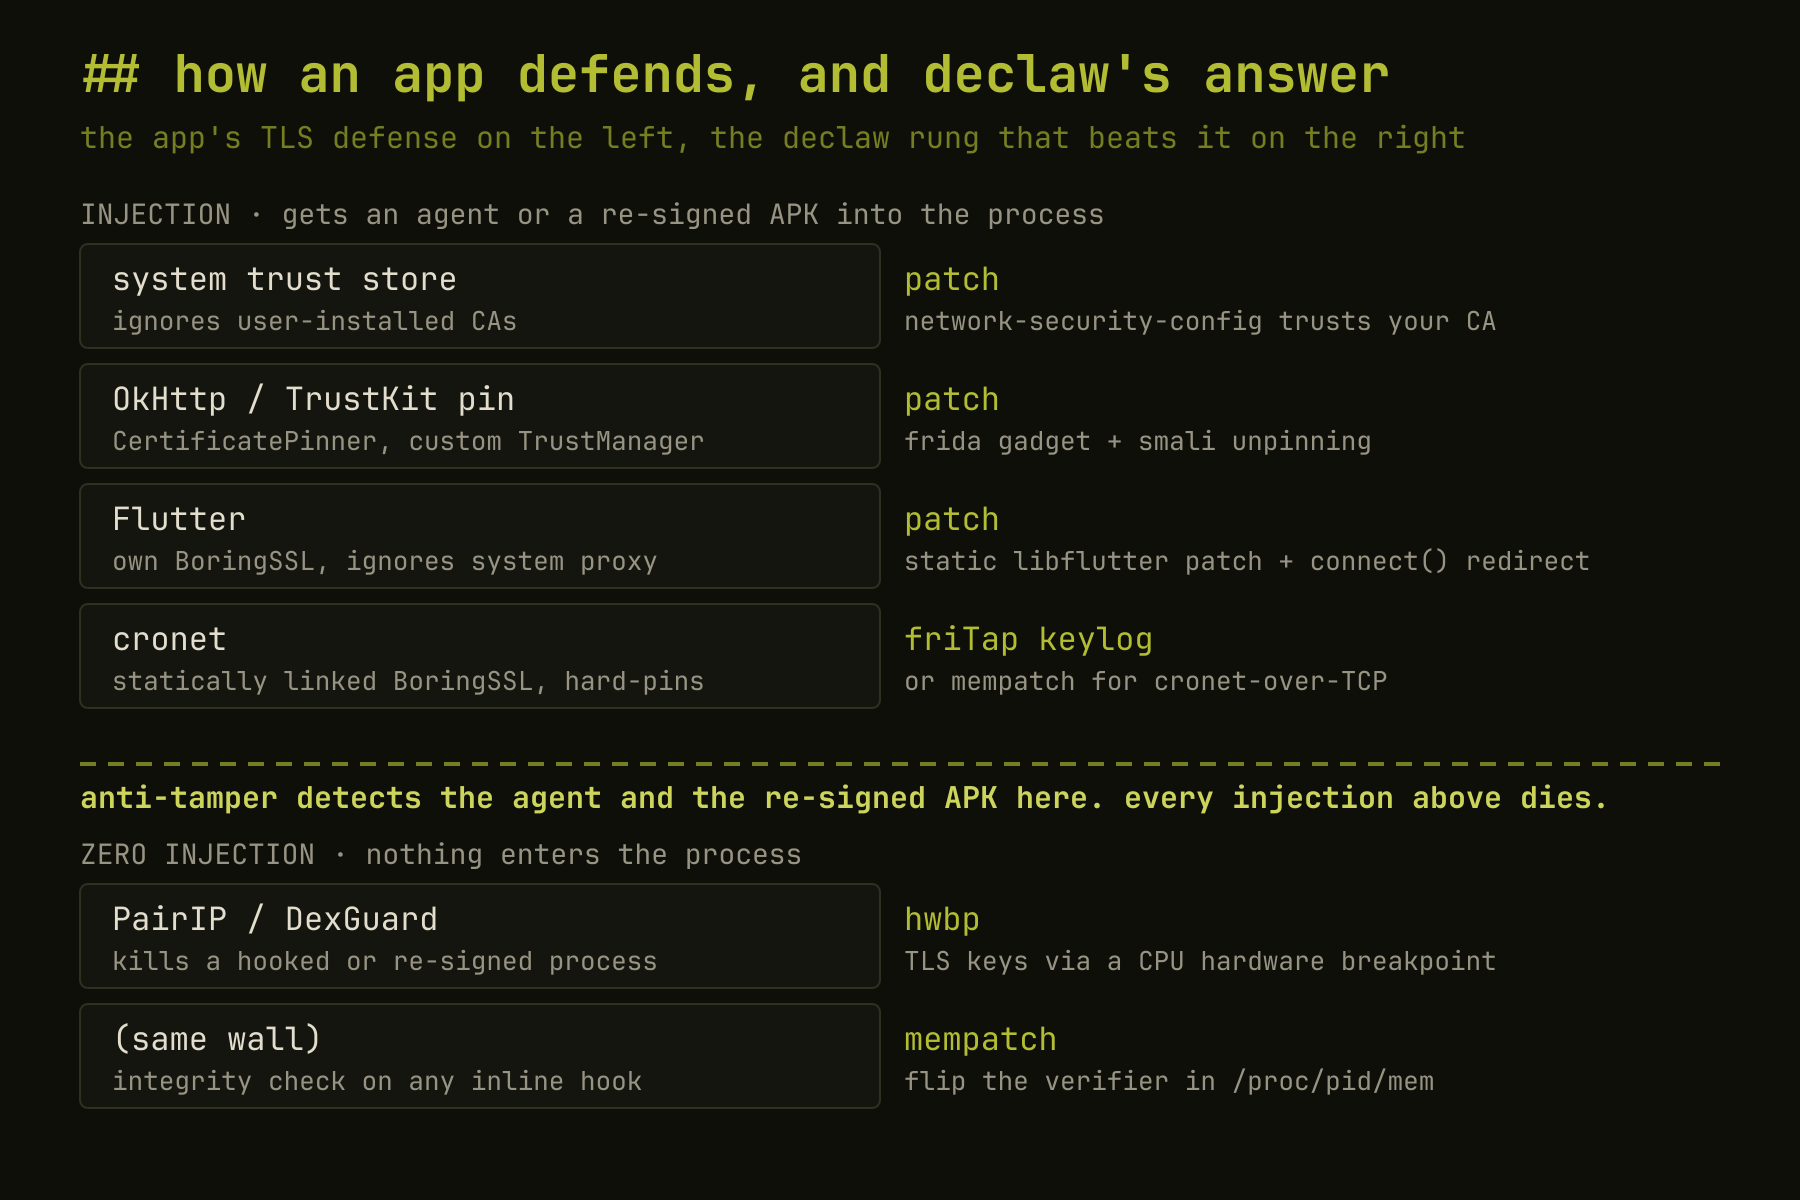
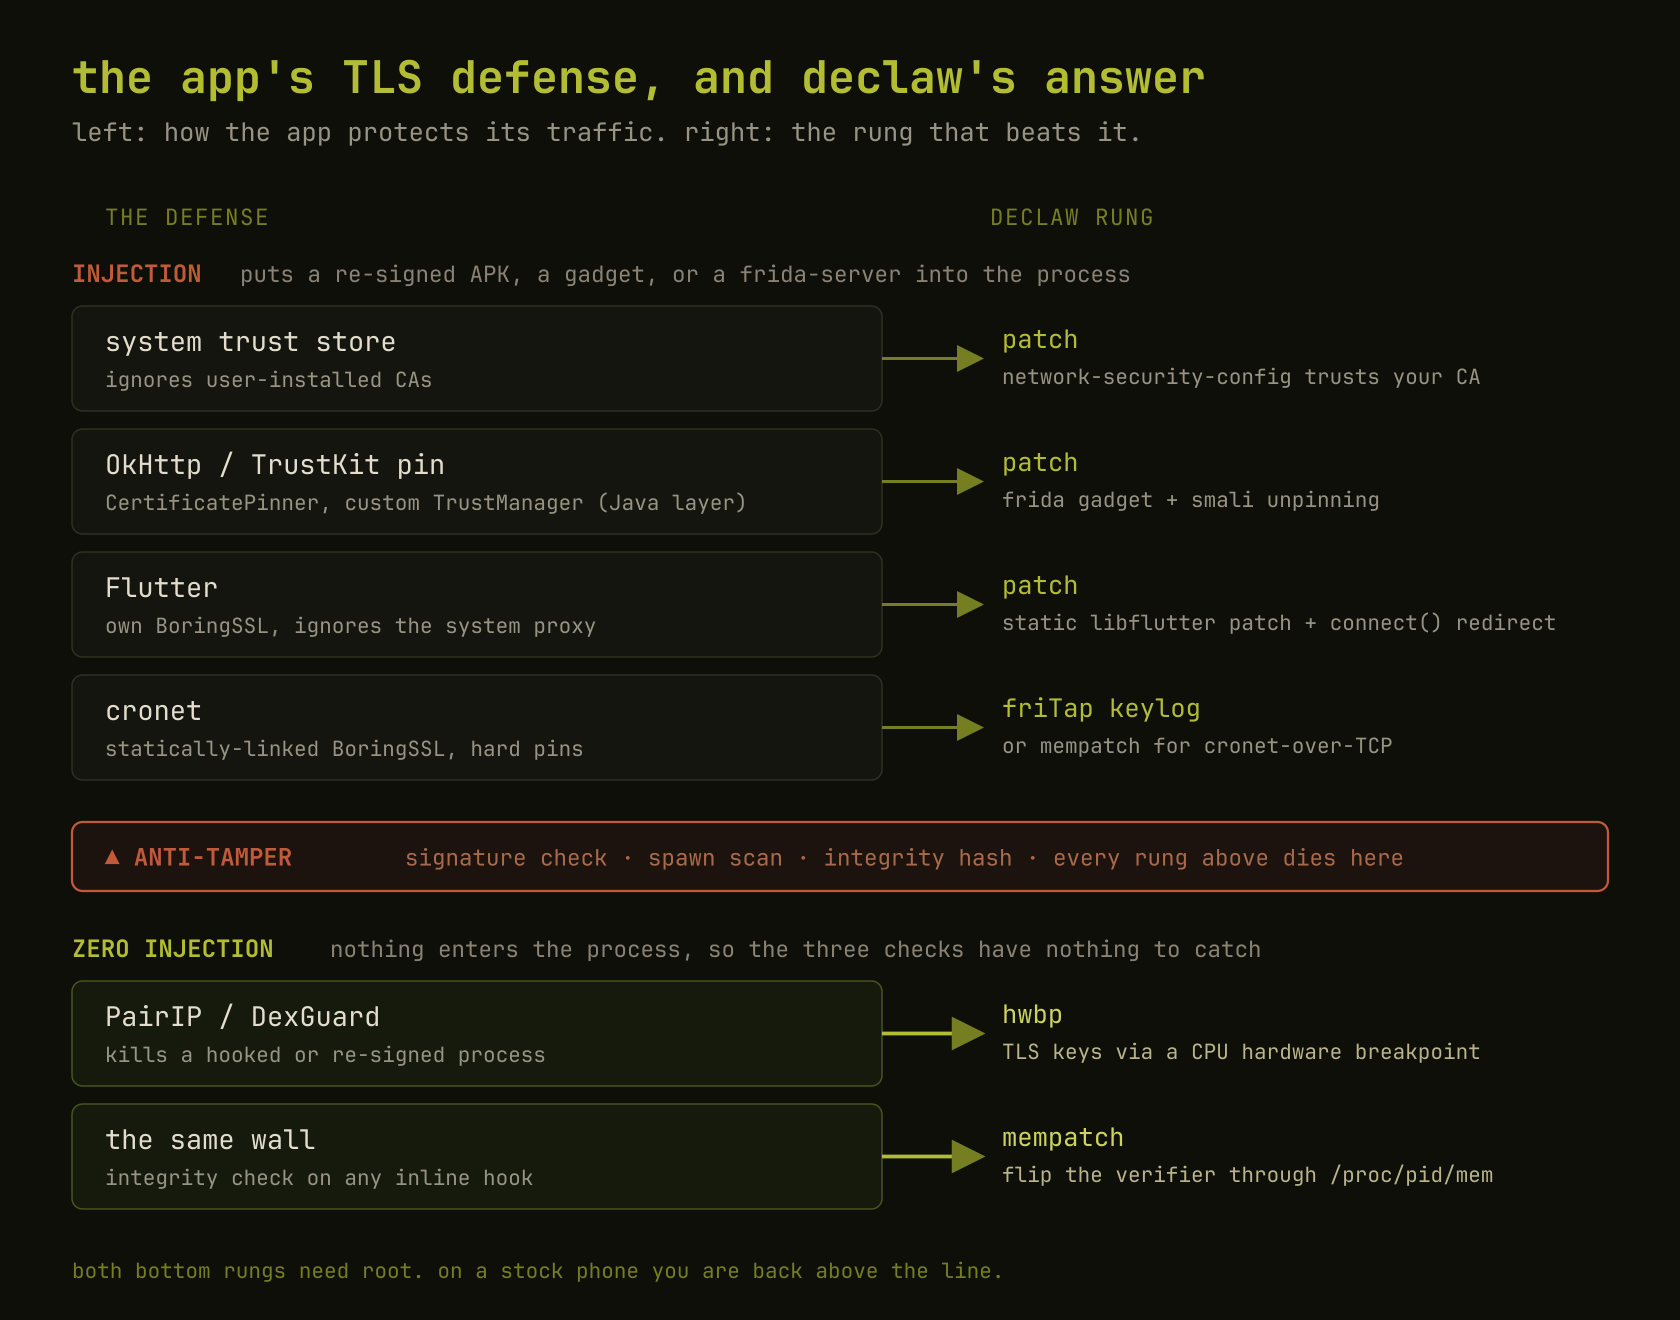
declaw post: real deploy terminals, deeper technique detail, wider column
Replace the declaw-lab visuals with real captures from deploying the rig:
fetch/provision/check, the corrected lab -h, and the avd snapshot restore.
Redesign the pinning-map with the defense-to-rung flow and the anti-tamper
line. Expand the techniques with the walls hit and the trials behind each:
the frida Gum crash and the killed re-signed build that forced the no-injection
rungs, the wrong-library mempatch trap, the rig-build OOM. Front-load the root
boundary, scope the hardened-app claim to what has a control, and separate the
Java-layer pin from the native chain trust. Widen the reading column to 52rem.

diff --git a/assets/css/main.scss b/assets/css/main.scss
@@ -807,7 +807,7 @@ a.sh-label {
 // header, prose, and code share one balanced column instead of the body text
 // hugging the left under a full-width header.
 .post {
-  max-width: 46rem;
+  max-width: 52rem;
   margin-inline: auto;
 }
 

diff --git a/_posts/2026-07-15-declaw-android-tls-unpinning.md b/_posts/2026-07-15-declaw-android-tls-unpinning.md
@@ -22,11 +22,15 @@ Search "Android SSL pinning bypass" and every result stops at the same place: in
 
 A modern anti-tamper packer like PairIP or DexGuard does three things that end that assumption. It verifies the APK signature at runtime, so your re-signed repackaged APK is spotted and killed before it runs. It scans for a Frida agent at spawn, so the injection is caught before your script loads. And it runs a code-integrity check that crashes the process on the first inline hook of a TLS function, so even an agent that gets in dies on the first thing it tries to do. Every technique in every "bypass pinning" post shares the assumption those three checks exist to destroy.
 
+I did not arrive at this from theory. I hit two of those walls in one sitting. A re-signed build of a hardened app died on launch, before its first screen, killed by the signature check. And separately, on a real device running Android 16 on a Tensor core, `frida-server` would not even stay up long enough to be detected: its Gum engine segfaulted on spawn on that kernel, so there was no agent to catch because the agent could not load at all. Two different defenses, and the same outcome both times, which is that the process I needed to be inside was one I could no longer get into.
+
 So the interesting question is not how to unpin. It is what you do when the app detects the unpinning. declaw is my answer to the whole spread, from the easy majority to that cliff, and the map looks like this.
 
 ![how an app defends its TLS and which declaw rung beats each, split by the line where injection stops working]({{ '/assets/img/posts/declaw-pinning-map.png' | relative_url }})
 
 Everything above the dashed line puts something into the process: a re-signed APK, a gadget, a frida-server. Anti-tamper is the line. Below it are the two rungs that put nothing in, and those are the ones worth writing about, so I am leading with them.
+
+One boundary belongs up front, because it shapes everything below the line. Both of those rungs need root, on a rooted device or an emulator you own. They read and write another process's memory, and a stock phone does not let you near it: `perf_event_paranoid` is locked down and SELinux is enforcing, so neither the breakpoint nor the `/proc/pid/mem` write is even reachable. That is the honest cost of getting under the injection line. On a stock, non-rooted phone you are back above it, in repackage territory, and the anti-tamper app wins. Everything that follows assumes the one place these rungs apply: a device or emulator where you already hold root.
 
 ## read the keys with a hardware breakpoint
 
@@ -68,11 +72,17 @@ On the real Android 16 conscrypt BoringSSL that is the live function at file off
 
 The decoy takes a second argument, `send_alert`, and reads it near the top with `mov w19, w1`. The live function takes one argument and never touches `w1`. That one read is the entire discriminator, and the function that has it is the one I patched by mistake.
 
+The decoy is the wrong function inside the right library. There is a second trap that is the wrong library entirely, and I walked into it too. An app that bundles cronet ships its own `stable_cronet_libssl.so`, and that filename contains `libssl.so`, so a loose match on `libssl.so@0x5aa30` resolves to cronet's copy instead of conscrypt's. The write took, the bytes read back exactly as intended, the tool printed success, and nothing decrypted, because I had flipped the verifier in a BoringSSL that was not the one running the handshake. Both traps have the identical shape, a patch that lands, verifies, and does nothing, and that shape is the argument for the discipline the whole post is built on: name the exact library, `com.android.conscrypt/lib64/libssl.so@auto`, let `find_verify` pick the live function inside it, and never trust a success you cannot turn back off.
+
 The negative control is the part I trust, because "the app loaded" is not evidence the bypass worked. Here it is fresh on the rig against a neutral target, the F-Droid client fetching its repo over conscrypt. A throwaway proxy presents an untrusted cert. Before the patch, conscrypt refuses it with `certificate_unknown`. After declaw writes the eight bytes into the live `ssl_verify_peer_cert` (the `before` bytes are `sub sp,#0x70 ; stp x29,x30`, the real prologue, so it landed on the function and not the decoy), the same request in the same process comes out in the clear.
 
 ![mempatch on the arm64 rig: F-Droid's cert-validated request to f-droid.org goes from certificate_unknown to plaintext after the eight-byte flip]({{ '/assets/img/posts/declaw-mempatch-capture.png' | relative_url }})
 
-Revert the eight bytes and it is `certificate_unknown` again. One variable, toggled, and the traffic appears and disappears with it. The same eight bytes work against an app built to notice: against a PairIP-hardened, certificate-pinned app, unpatched it dropped the connection with `certificate_unknown` and patched it emitted `POST https://<its API host>/graphql/...` in the clear, and since nothing was hooked and no file changed, the packer had nothing to fault. The one thing the flip does not touch is the Java-layer hostname check, which is why the proxy mints a per-SNI leaf: `ssl_verify_peer_cert` is the chain trust, and OkHttp verifies the name separately.
+Revert the eight bytes and it is `certificate_unknown` again. One variable, toggled, and the traffic appears and disappears with it. That is the control I can hand you: a neutral target, patched and unpatched in the same process, on the rig, and it is the run I trust because it is the one I can turn off on demand.
+
+The same eight bytes carry to an app built to notice, and I want to be exact about the evidence there. Against a PairIP-hardened, pinned target, the unpatched process dropped the connection with `certificate_unknown`, and after the flip the same process emitted a `POST .../graphql` request in the clear. Nothing was hooked and no file on disk changed, so the code-integrity check had nothing to fault, which is the entire reason this rung exists. But I am keeping that target anonymous, so what you get for it is the mechanism and not a captured, reverting control like the neutral one above. The strong, reproducible evidence in this post is the F-Droid run; the hardened run is the identical primitive against a name I will not print. I would rather say that plainly than dress an anonymized result up as proof.
+
+Two things the flip deliberately does not do, and you have to handle both. It does not touch the Java-layer hostname check, so the proxy mints a per-SNI leaf to satisfy it. And, more importantly, it does not touch a Java-layer certificate pin. `ssl_verify_peer_cert` is BoringSSL's chain-trust decision, but OkHttp's `CertificatePinner` runs up in Java, after the handshake, comparing the peer chain against pins the app hardcoded, and the eight bytes never reach it. So mempatch is the rung for native trust: conscrypt, cronet, and the packers that pin below the Java layer. Where the pin lives in OkHttp itself, flipping BoringSSL is not enough, and that app goes the repackage route instead, which is the next section.
 
 ## and for everything that does not fight back
 
@@ -88,13 +98,17 @@ That is a real run against the open-source F-Droid client. declaw pulled the bas
 - a static byte-patch of `libflutter.so` for Flutter apps, so the bypass survives even where the gadget cannot load,
 - and the whole repack, parallel re-sign, and `install-multiple` dance with a `pm install` session fallback, all cached under `utils/` so the first slow download is the only slow one.
 
+The Flutter static patch is the rung I lean on hardest, because the gadget is the fragile part of this whole path. The same Frida Gum crash that killed injection on the hardened app also makes the gadget unreliable on newer devices, and a Flutter app ignores your system proxy on top of that, so you can have a gadget that loads and still see no traffic. Patching `ssl_verify_peer_cert` inside `libflutter.so` on disk sidesteps both problems at once: no agent to crash, and the `connect()` redirect drags the socket to your proxy regardless. That combination is what got a real Flutter banking app decrypting cleanly into Burp end to end, on a build where the gadget alone had gotten me nothing.
+
 When it detects cronet or an anti-tamper packer, it says so and routes you to the capture rungs instead of handing you a patched APK that will be rejected or killed. One command reads the app and picks the fight it can actually win. That is the part that makes it a tool.
 
 ## declaw-lab: proving the hard rungs on Linux
 
 Every rung past the first leans on the same thing: root, arm64, and the app's real BoringSSL in a real process. The standard x86_64 Android emulator gives you none of it cleanly. It cannot run arm-only builds, its ARM translation layer SIGSEGVs Frida's native hooks, and the hardware-breakpoint finder and mempatch stub are arm64-only by construction. So to test any of this honestly on an x86 Linux laptop, with no ARM hardware in the room, I needed a rooted arm64 Android I fully controlled. That is [declaw-lab](https://github.com/UncleJ4ck/declaw-lab): two backends, one `./lab` entrypoint, all on a Linux host.
 
-![the rooted lab device, an Android guest driven entirely over adb]({{ '/assets/img/posts/declaw-lab-device.png' | relative_url }})
+Standing it up was its own fight. There is no prebuilt multilib LineageOS image, so the first version tried to build one from source, which wants 64 GB of RAM and 400 GiB of disk and OOM-killed `soong` on a 31 GiB laptop because the module graph has to stay resident. The version that actually deploys is smaller: a pinned 1.1 GB `virtio_arm64only` prebuilt that fetches, verifies against a known hash, and gets rooted in place. The rig ships as a LineageOS `user` build that is hostile to headless root, so `provision` byte-patches the raw disk (AVB is `orange`, nothing verifies it): the `vendor_boot` cmdline gains `androidboot.selinux=permissive`, without which the gralloc path hits a `/dev/udmabuf` denial and SurfaceFlinger crash-loops before it ever boots, and `build.prop` gets `ro.debuggable=0 -> 1` and `ro.adb.secure=1 -> 0` so `adb root` runs and the device comes up authorized. One command later you have a rooted, permissive Android 16.
+
+![deploying the arm64 rig: fetch a pinned 1.1 GB image, root it, and check proves Android 16, uid 0, permissive]({{ '/assets/img/posts/declaw-lab-deploy.png' | relative_url }})
 
 The **qemu** backend boots a real aarch64 Android under `qemu-system-aarch64` from your distro's own qemu package, with edk2 firmware. Getting one onto a laptop used to mean a from-source LineageOS build with the 64 GB of RAM and 400 GiB of disk that AOSP asks for. It does not anymore. The default image is a pinned ~1.1 GB prebuilt: `lab qemu fetch` downloads it and checks it against a known hash, `lab qemu provision` roots it and makes it permissive in place, and you boot. The heavy source build only comes back if you specifically want to run 32-bit apps, which need a separate multilib image. The arm64 instructions execute as guest code, not through an x86 native bridge. On an x86 host the CPU is necessarily QEMU TCG software translation, not physical ARM silicon and not KVM, and I am not going to pretend otherwise. What you can do is make TCG hurt less, and the boot runs with multi-threaded TCG spread across host cores, `pauth-impdef` so pointer-authentication emulation stops being a tax, a gigabyte of translation-block cache, and the vCPU threads pinned to physical cores. It is the only backend that runs declaw's arm64 primitives, which is the entire reason it exists.
 
@@ -102,7 +116,7 @@ The **avd** backend is the fast lane: a rooted x86_64 Google emulator on KVM, fo
 
 ![measured cold versus warm boot after enabling the snapshot]({{ '/assets/img/posts/declaw-quickboot.png' | relative_url }})
 
-The fix was one flag with a caveat I had to check by hand. `-writable-system` is why quick-boot was off in the first place, because a writable system image can invalidate the snapshot, and older emulators refused the combination. The current one does not. So the lab boots cold once, saves a rooted snapshot, and every later run restores it with `-no-snapshot-save`: cold boot 26 seconds, warm boot 8, and it comes back already root. Measured, not guessed, and it never overwrites the snapshot, so each run still starts from the same clean state.
+The fix was one flag with a caveat I had to check by hand. `-writable-system` is why quick-boot was off in the first place, because a writable system image can invalidate the snapshot, and older emulators refused the combination. The current one does not. So the lab boots cold once, saves a rooted snapshot, and every later run restores it with `-no-snapshot-save`. The emulator loads that snapshot in a few seconds and the device comes back already root, instead of paying a full cold Android boot, and `-no-snapshot-save` never overwrites the snapshot, so each run still starts from the same clean state.
 
 Everything folds into one command. Point a backend at a patched APK and it boots the device, installs, redirects that app's 443 to a host MITM, and opens a scrcpy window, and because a declawed app accepts any cert there is no device CA to install, which is the whole point.
 
